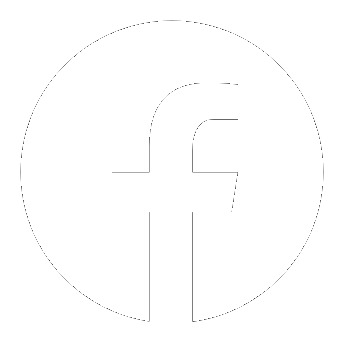
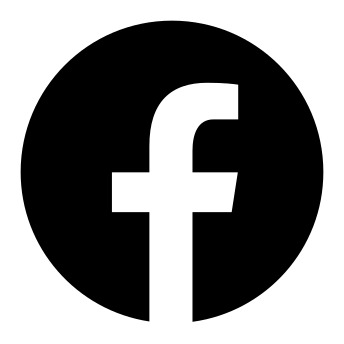
patch:modifed the images,styling in css and html edited

diff --git a/contactUs.html b/contactUs.html
@@ -102,11 +102,14 @@
         <div>
             <h2>VISIT US</h2>
             <p>5th Avenue Street <br>Nairobi, KE 94158</p>
-            <img src="" style="width: 40px;">
-            <img src="" style="width: 40px;">
-            <img src="" style="width: 40px;">
-            <img src="" style="width: 40px;">
-            <img src="" style="width: 40px;">
+            <ul class="img">
+                <li><img src="Images/output-facebook.jpg" style="width: 40px;"></li>
+                <li><img src="Images/output-twitter.jpg" style="width: 40px;"></li>
+                <li><img src="Images/output-youtube.jpg" style="width: 40px;"></li>
+                <li><img src="Images/output-pinterest.jpg" style="width: 40px;"></li>
+                <li><img src="Images/output-instagram.jpg" style="width: 40px;"></li>
+            </ul>
+            
         </div>
     </div>
     <footer>

diff --git a/contactUs.css b/contactUs.css
@@ -97,3 +97,16 @@ h5{
     align-items: center;
     text-align: center;
 }
+.img{
+    display: flex;
+}
+footer{
+    display: flex;
+    flex-direction: row;
+    justify-content:center;
+    
+}
+.offers{
+    display: grid;
+    text-align: justify;
+}
